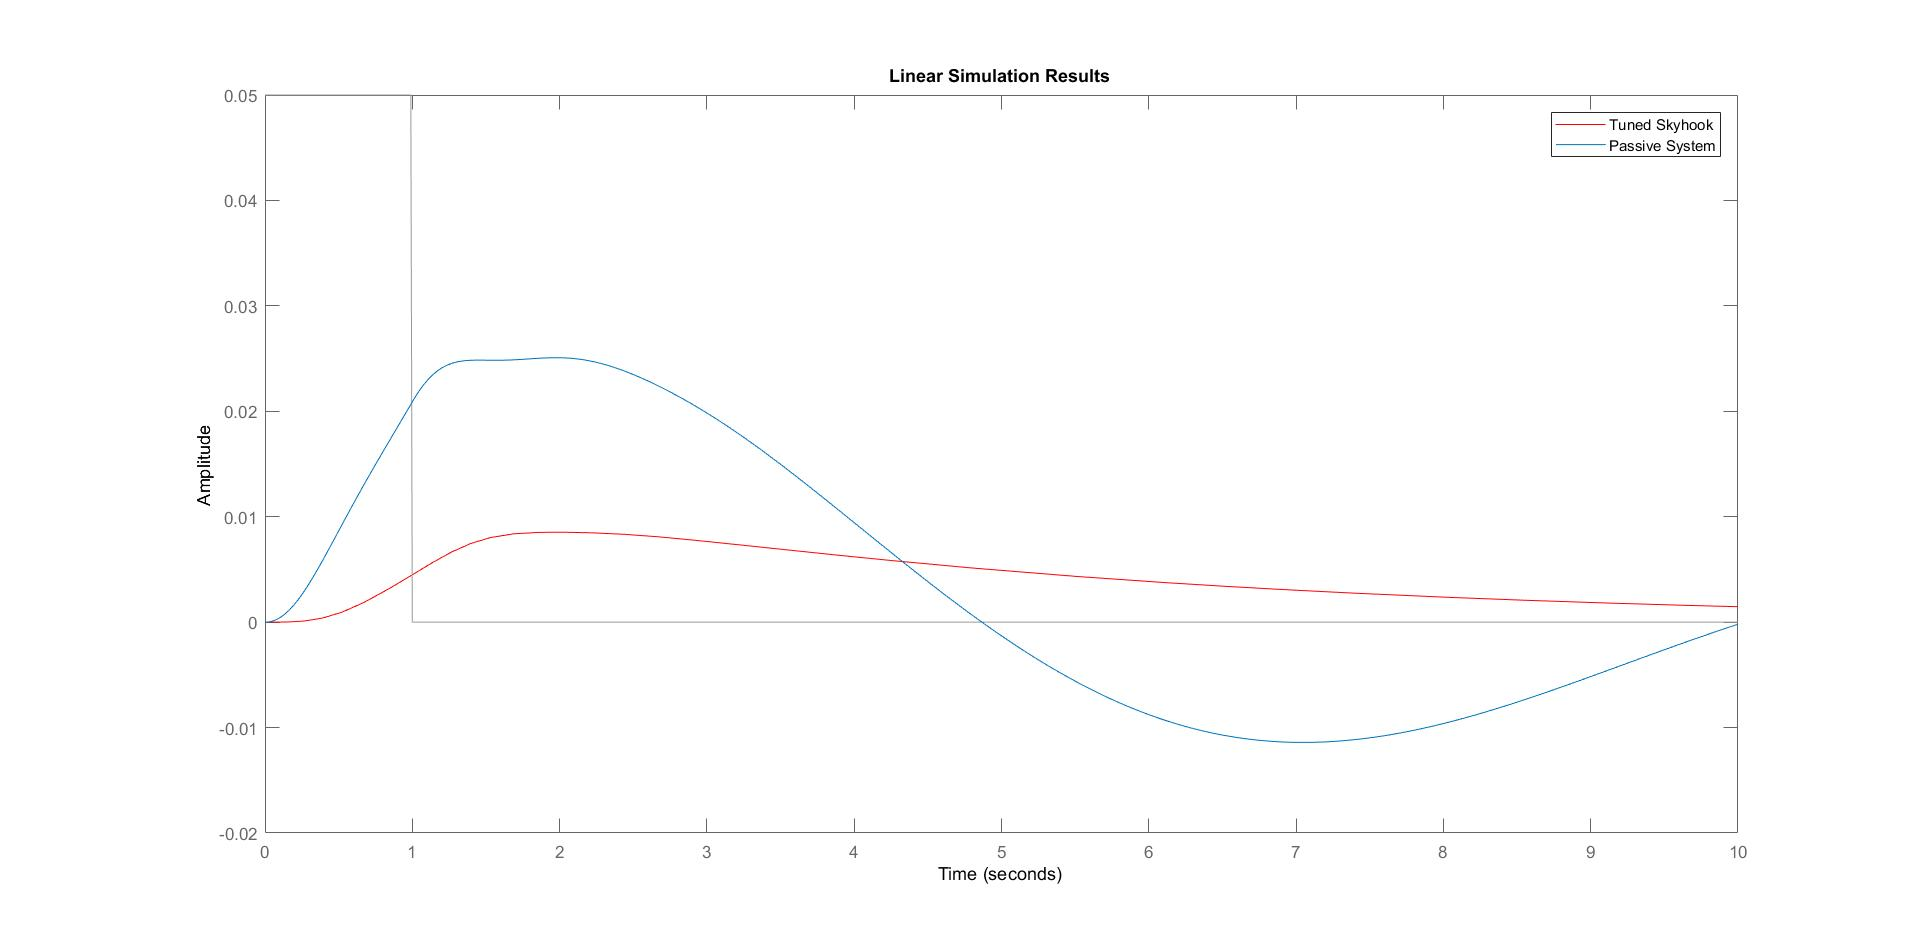
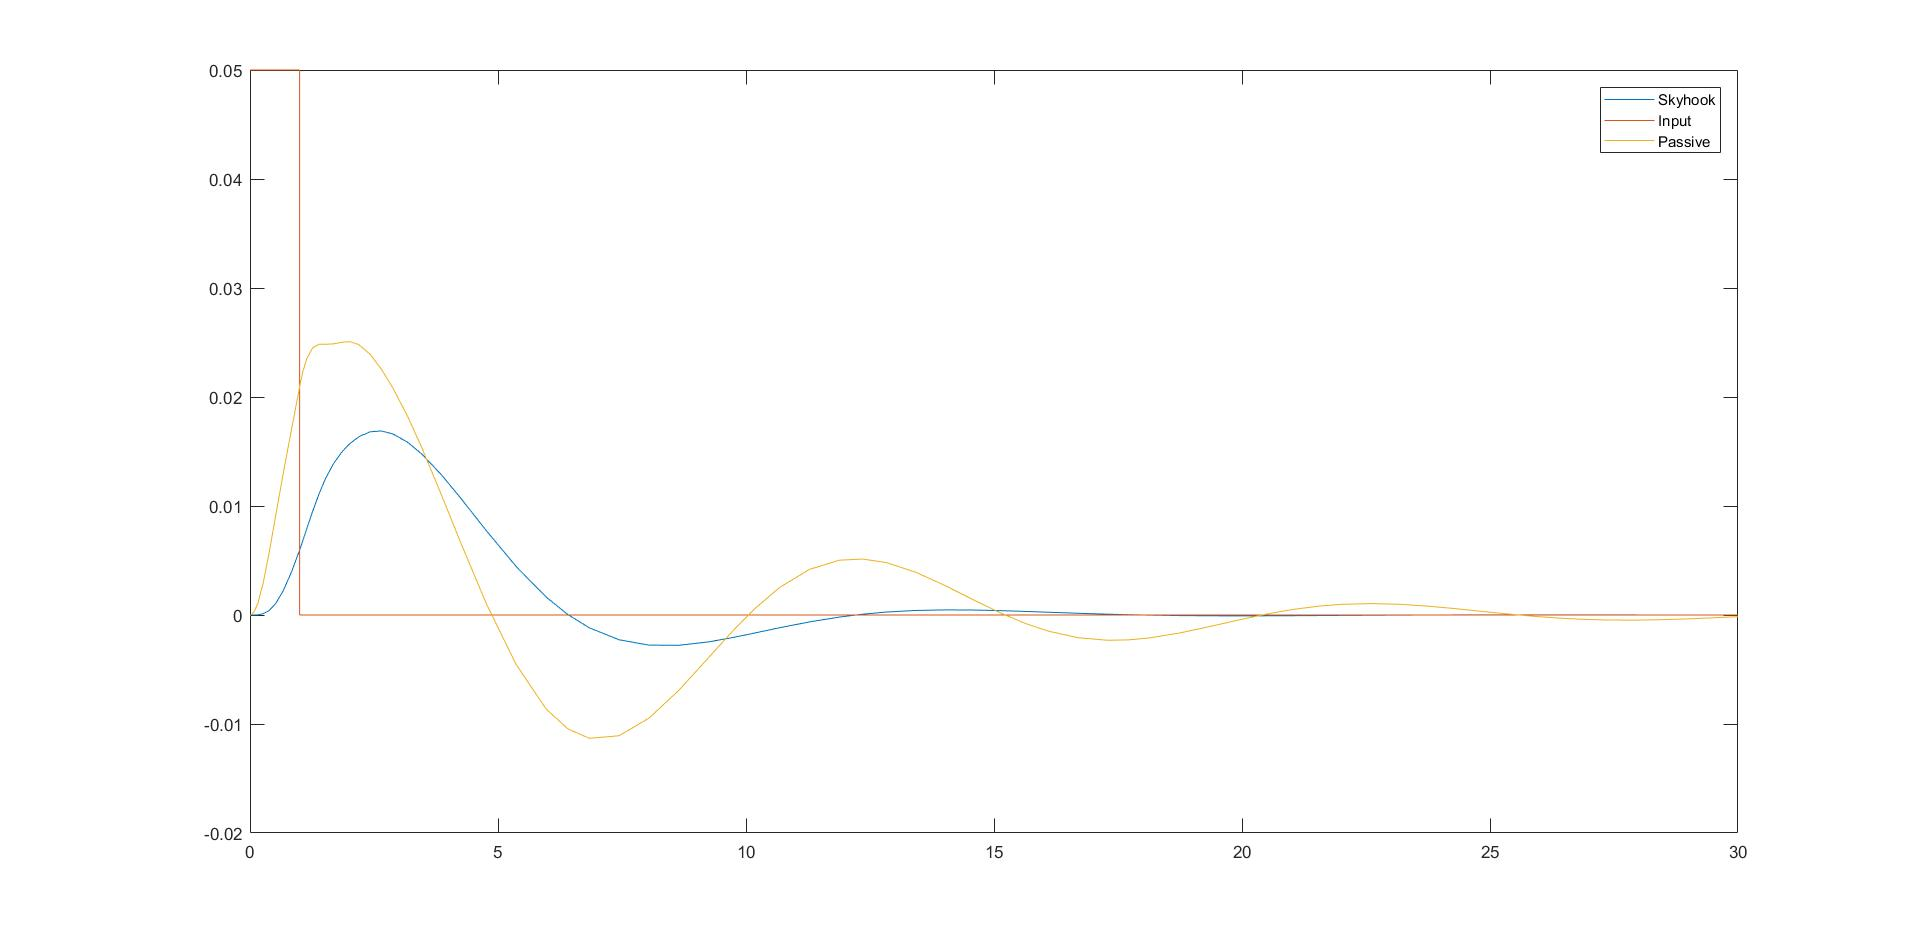
h

diff --git a/task6.m b/task6.m
@@ -1,6 +1,6 @@
 %% task 6
 
-clear all
+%clear all
 
 c_s = 0.05;
 m_s = 0.16;
@@ -41,38 +41,39 @@ H = (-k_p-c_p*s)/(k_s+c_s*s+((k_s+c_s*s+m_s*s^2)/(k_s+c_s*s))*(-k_s-c_s*s-k_p-c_
 
 % figure(1)
 % bode(H)
+% hold on;
 
 % 
 % step(H)
 
-%% sine excitation
-t = 0:0.01:10;
-excitation_sin = 0.05*sin(3*t);
-
-figure(1)
-lsim(H,excitation_sin,t) % sine excitation
-hold on;
-
-%% Impulse
-stepinput = 0.05*ones([1 length(t)]);
-for i = 101:length(t)
-   stepinput(i) = 0; 
-end
-
-figure(2)
-lsim(H,stepinput,t) % impulse excitation
-hold on;
-
-%% PSD
-w = 0:0.01:25;
-PSD = (4.028e-7)./((2.88e-4)+(0.68*w.^2)+w.^4);
-Hfreqdomain = freqresp(H,w);
-H = abs(Hfreqdomain(:))';
-PSD = H.^2.*PSD;
-
-figure(3)
-semilogy(w,PSD);
-hold on;
-xlabel('Frequency (Hz)')
-ylabel('Amplitude')
+% %% sine excitation
+% t = 0:0.01:10;
+% excitation_sin = 0.05*sin(3*t);
+% 
+% figure(1)
+% lsim(H,excitation_sin,t) % sine excitation
+% hold on;
+% 
+% %% Impulse
+% stepinput = 0.05*ones([1 length(t)]);
+% for i = 101:length(t)
+%    stepinput(i) = 0; 
+% end
+% 
+% figure(2)
+% lsim(H,stepinput,t) % impulse excitation
+% hold on;
+% 
+% %% PSD
+% w = 0:0.01:25;
+% PSD = (4.028e-7)./((2.88e-4)+(0.68*w.^2)+w.^4);
+% Hfreqdomain = freqresp(H,w);
+% H = abs(Hfreqdomain(:))';
+% PSD = H.^2.*PSD;
+% 
+% figure(3)
+% semilogy(w,PSD);
+% hold on;
+% xlabel('Frequency (Hz)')
+% ylabel('Amplitude')
 

diff --git a/task1_1.m b/task1_1.m
@@ -12,36 +12,38 @@ H = tf([0,2*zeta*w_n,w_n^2],[1,2*zeta*w_n,w_n^2])
 H1 = tf([0,2*zeta1*w_n,w_n^2],[1,2*zeta1*w_n,w_n^2])
 % fr= 0:0.01:100;
 % [mag,phase,wout] = bode(H1,fr);
-% bode(H,H1);
+figure(1)
+bode(H);
+hold on;
 
 
 %% task 1.3
 
-%% sine excitation
-t = 0:0.01:10;
-excitation_sin = 0.05*sin(3*t);
-
+% %% sine excitation
+% t = 0:0.01:10;
+% excitation_sin = 0.05*sin(3*t);
+% 
+% % figure()
+% % plot(t,excitation_sin)
+% 
 % figure()
-% plot(t,excitation_sin)
-
-figure()
-lsim(H,excitation_sin,t) % sine excitation
- %% Impulse
-stepinput = 0.05*ones([1 length(t)]);
-for i = 101:length(t)
-   stepinput(i) = 0; 
-end
-
-figure()
-lsim(H,stepinput,t) % impulse excitation
-
- %%PSD
-w = 0:25;
-PSD = (4.028e-7)./((2.88e-4)+(0.68*w.^2)+w.^4);
-Hfreqdomain = freqresp(H,w);
-H = abs(Hfreqdomain(:))';
-PSD = H.^2.*PSD;
-
-semilogy(w,PSD)
+% lsim(H,excitation_sin,t) % sine excitation
+%  %% Impulse
+% stepinput = 0.05*ones([1 length(t)]);
+% for i = 101:length(t)
+%    stepinput(i) = 0; 
+% end
+% 
+% figure()
+% lsim(H,stepinput,t) % impulse excitation
+% 
+%  %%PSD
+% w = 0:25;
+% PSD = (4.028e-7)./((2.88e-4)+(0.68*w.^2)+w.^4);
+% Hfreqdomain = freqresp(H,w);
+% H = abs(Hfreqdomain(:))';
+% PSD = H.^2.*PSD;
+% 
+% semilogy(w,PSD)
 
 

diff --git a/task64.m b/task64.m
@@ -1,6 +1,6 @@
 %% task 6.4
 
-clear all
+% clear all
 
 c_s = 0.05;
 m_s = 0.16;
@@ -8,11 +8,14 @@ k_s = 0.0632;
 c_p = 0.8;
 m_p = 0.16;
 k_p = 6.32;
-% for T = 0.1:0.1:1;
-T=0.3;
+% for T = 0.1:0.01:0.2;
+T=0.1;
 % range=[0.0001 0.001 0.01 0.1 1 10 100  ];
 % for l1=1:length(range)
 %     T=range(l1);
+
+s = tf('s');
+H = (-k_p-c_p*s)/(k_s+c_s*s+((k_s+c_s*s+m_s*s^2)/(k_s+c_s*s))*(-k_s-c_s*s-k_p-c_p*s-m_p*s^2));
 
 A = [0 1 0 0; -k_s/m_s -T/m_s k_s/m_s 0; 0 0 0 1; k_s/m_p T/m_p -(k_s+k_p)/m_p -(c_p/m_p)];
 B = [0 0; 0 0; 0 0; k_p/m_p c_p/m_p];
@@ -26,6 +29,9 @@ hold on;
 % end
 plot(simout1.Time, simout1.Data(:,1));
 hold on;
+plot(simout2.Time, simout2.Data(:,1));
+hold on;
+
 
 % 
 % %% sine excitation
